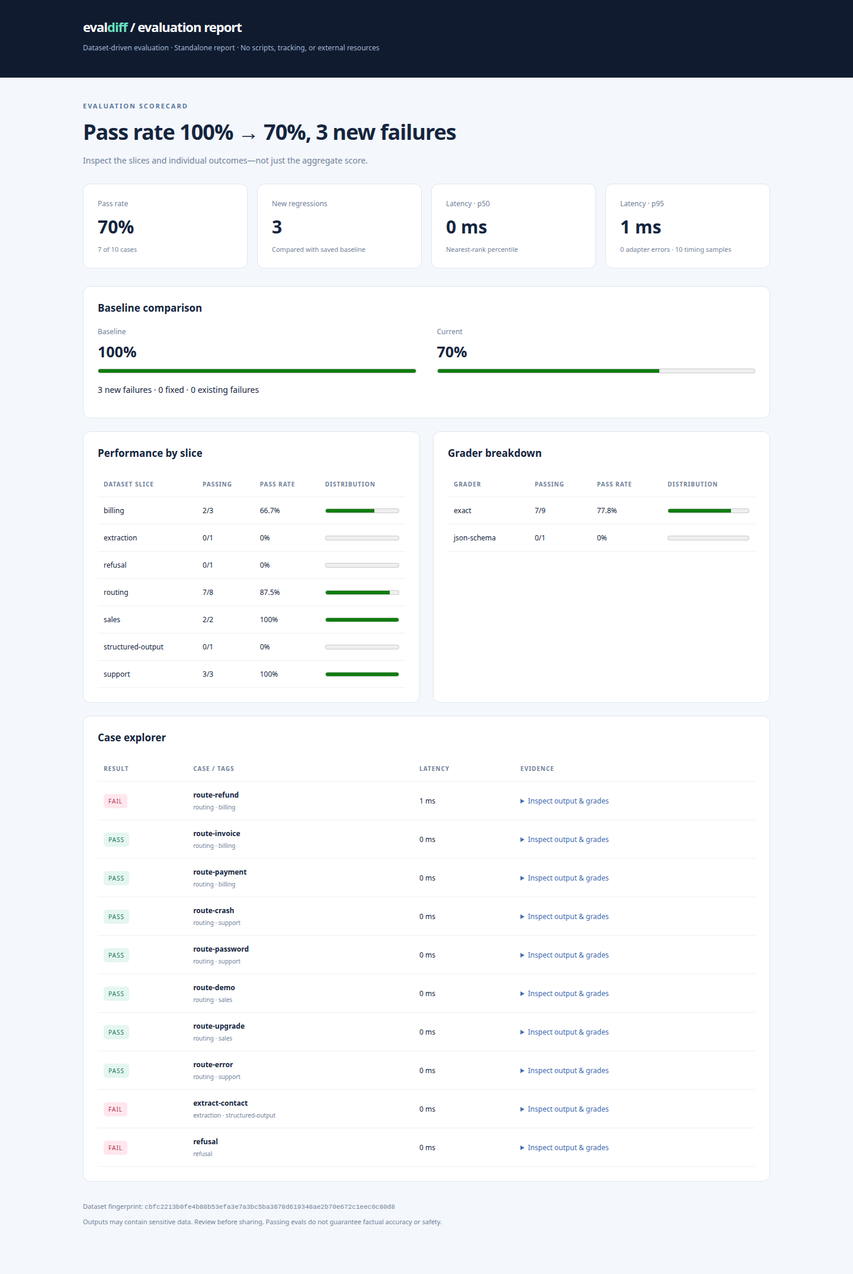
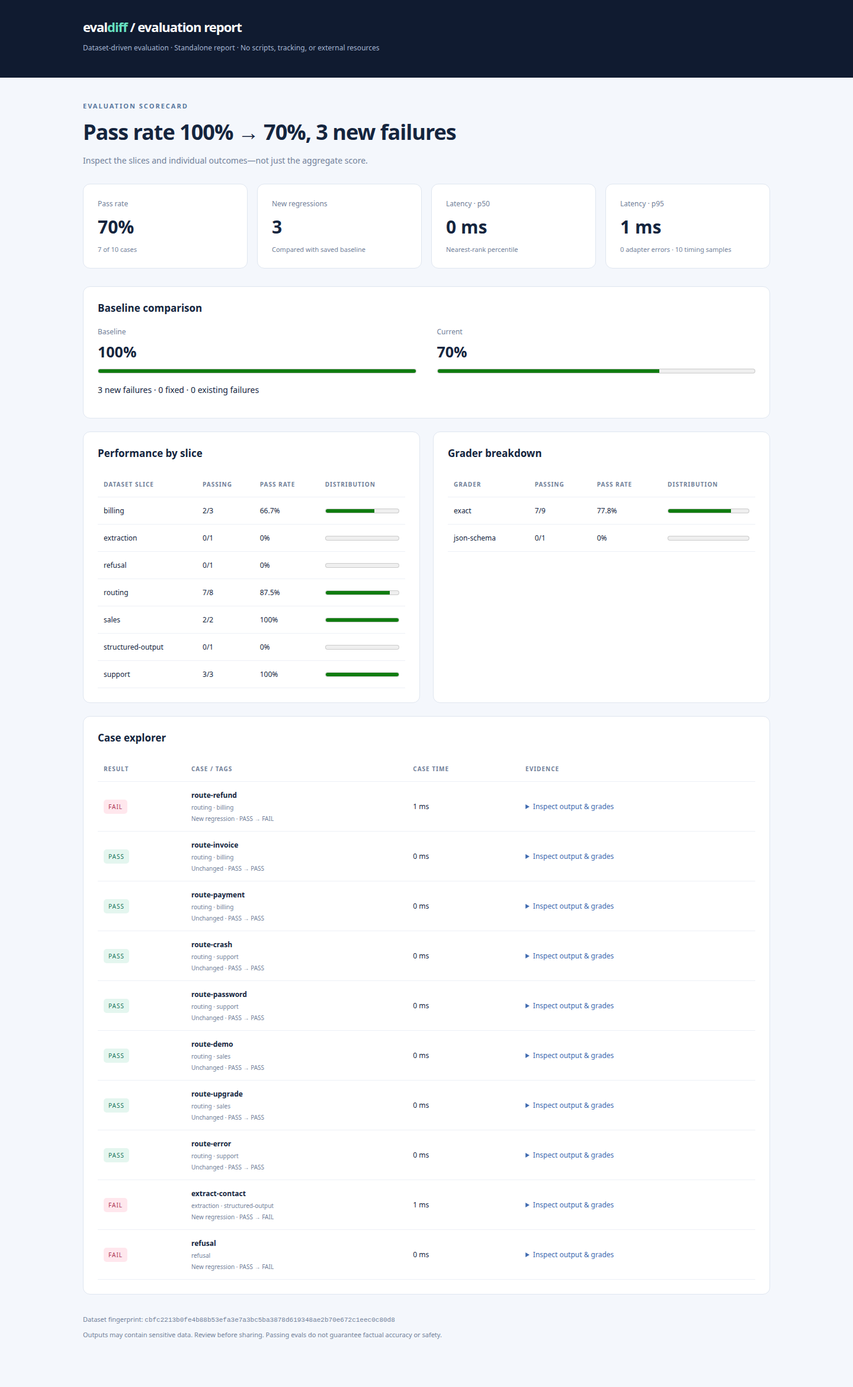
Improve regression triage, failed-case reruns, and baseline overwrite safety

diff --git a/docs/evaluation-report.html b/docs/evaluation-report.html
@@ -1,5 +1,5 @@
 <!doctype html><html lang="en"><head><meta charset="utf-8"><meta name="viewport" content="width=device-width,initial-scale=1"><meta http-equiv="Content-Security-Policy" content="default-src 'none'; style-src 'unsafe-inline'; base-uri 'none'; form-action 'none'"><title>EvalDiff · Evaluation report</title><style>
 *{box-sizing:border-box}body{margin:0;background:#f4f7fc;color:#14253e;font:14px system-ui,sans-serif}header{background:#101b30;color:#fff;padding:30px max(24px,calc((100vw - 1160px)/2))}.brand{font-size:22px;font-weight:750;letter-spacing:-1px}.brand span{color:#68e2c2}header p{color:#a4b4d0;font-size:12px}main{max-width:1208px;margin:auto;padding:40px 24px}h1{font-size:clamp(25px,3vw,36px);letter-spacing:-1px;margin:12px 0}h2{font-size:17px;margin:0 0 20px}.eyebrow{color:#59789f;letter-spacing:2px;font-size:11px;font-weight:700}.muted,small{color:#718099}.cards{display:grid;grid-template-columns:repeat(4,1fr);gap:16px;margin:30px 0}.metric,.panel{background:#fff;border:1px solid #dfe6f0;border-radius:12px;padding:24px}.metric span,.metric small{display:block}.metric span{color:#718099;font-size:12px}.metric strong{display:block;font-size:30px;margin:10px 0}.metric small{font-size:11px}.panel{margin-bottom:22px;overflow:auto}.columns{display:grid;grid-template-columns:1fr 1fr;gap:22px}.compare{display:flex;gap:35px}.compare>div{flex:1}.compare span{display:block;color:#718099;font-size:12px}.compare strong{font-size:25px;display:block;margin:8px 0}meter{display:block;width:100%;height:16px;accent-color:#2ca58a}table{width:100%;border-collapse:collapse;text-align:left}th{font-size:10px;letter-spacing:1px;text-transform:uppercase;color:#718099}td,th{padding:14px 10px;border-bottom:1px solid #edf0f6}td{font-size:12px}td small{display:block;font-size:10px;margin-top:5px}.badge{font-size:10px;letter-spacing:1px;padding:5px 8px;border-radius:5px}.pass{background:#e4f6ef;color:#17755b}.fail{background:#ffe7ed;color:#ac3453}summary{cursor:pointer;color:#416bb0;font-size:12px}pre{background:#f4f7fc;padding:14px;white-space:pre-wrap;overflow-wrap:anywhere;font-size:11px;max-width:550px;max-height:350px;overflow:auto}footer{font-size:11px;color:#718099;padding:12px 0 30px}code{font-size:11px;overflow-wrap:anywhere}@media(max-width:750px){.cards{grid-template-columns:repeat(2,1fr)}.columns{grid-template-columns:1fr}.metric{padding:18px}main{padding:24px 16px}}@media print{body{background:white}.panel,.metric{break-inside:avoid}details{display:block}}
-</style></head><body><header><div class="brand">eval<span>diff</span> / evaluation report</div><p>Dataset-driven evaluation · Standalone report · No scripts, tracking, or external resources</p></header><main><div class="eyebrow">EVALUATION SCORECARD</div><h1>Pass rate 100% → 70%, 3 new failures</h1><p class="muted">Inspect the slices and individual outcomes—not just the aggregate score.</p><div class="cards"><section class="metric"><span>Pass rate</span><strong>70%</strong><small>7 of 10 cases</small></section><section class="metric"><span>New regressions</span><strong>3</strong><small>Compared with saved baseline</small></section><section class="metric"><span>Latency · p50</span><strong>0 ms</strong><small>Nearest-rank percentile</small></section><section class="metric"><span>Latency · p95</span><strong>1 ms</strong><small>0 adapter errors · 10 timing samples</small></section></div><section class="panel"><h2>Baseline comparison</h2><div class="compare"><div><span>Baseline</span><strong>100%</strong><meter min="0" max="10" value="10">100%</meter></div><div><span>Current</span><strong>70%</strong><meter min="0" max="10" value="7">70%</meter></div></div><p>3 new failures · 0 fixed · 0 existing failures</p></section><div class="columns"><section class="panel"><h2>Performance by slice</h2><table><thead><tr><th>Dataset slice</th><th>Passing</th><th>Pass rate</th><th>Distribution</th></tr></thead><tbody><tr><td>billing</td><td>2/3</td><td>66.7%</td><td><meter min="0" max="3" value="2">66.7%</meter></td></tr><tr><td>extraction</td><td>0/1</td><td>0%</td><td><meter min="0" max="1" value="0">0%</meter></td></tr><tr><td>refusal</td><td>0/1</td><td>0%</td><td><meter min="0" max="1" value="0">0%</meter></td></tr><tr><td>routing</td><td>7/8</td><td>87.5%</td><td><meter min="0" max="8" value="7">87.5%</meter></td></tr><tr><td>sales</td><td>2/2</td><td>100%</td><td><meter min="0" max="2" value="2">100%</meter></td></tr><tr><td>structured-output</td><td>0/1</td><td>0%</td><td><meter min="0" max="1" value="0">0%</meter></td></tr><tr><td>support</td><td>3/3</td><td>100%</td><td><meter min="0" max="3" value="3">100%</meter></td></tr></tbody></table></section><section class="panel"><h2>Grader breakdown</h2><table><thead><tr><th>Grader</th><th>Passing</th><th>Pass rate</th><th>Distribution</th></tr></thead><tbody><tr><td>exact</td><td>7/9</td><td>77.8%</td><td><meter min="0" max="9" value="7">77.8%</meter></td></tr><tr><td>json-schema</td><td>0/1</td><td>0%</td><td><meter min="0" max="1" value="0">0%</meter></td></tr></tbody></table></section></div><section class="panel"><h2>Case explorer</h2><table><thead><tr><th>Result</th><th>Case / tags</th><th>Latency</th><th>Evidence</th></tr></thead><tbody><tr><td><span class="badge fail">FAIL</span></td><td><strong>route-refund</strong><small>routing · billing</small></td><td>1 ms</td><td><details><summary>Inspect output & grades</summary><pre>&quot;sales&quot;</pre><pre>exact: Output did not exactly match the expected value.</pre></details></td></tr><tr><td><span class="badge pass">PASS</span></td><td><strong>route-invoice</strong><small>routing · billing</small></td><td>0 ms</td><td><details><summary>Inspect output & grades</summary><pre>&quot;billing&quot;</pre><pre>exact: Exact match.</pre></details></td></tr><tr><td><span class="badge pass">PASS</span></td><td><strong>route-payment</strong><small>routing · billing</small></td><td>0 ms</td><td><details><summary>Inspect output & grades</summary><pre>&quot;billing&quot;</pre><pre>exact: Exact match.</pre></details></td></tr><tr><td><span class="badge pass">PASS</span></td><td><strong>route-crash</strong><small>routing · support</small></td><td>0 ms</td><td><details><summary>Inspect output & grades</summary><pre>&quot;support&quot;</pre><pre>exact: Exact match.</pre></details></td></tr><tr><td><span class="badge pass">PASS</span></td><td><strong>route-password</strong><small>routing · support</small></td><td>0 ms</td><td><details><summary>Inspect output & grades</summary><pre>&quot;support&quot;</pre><pre>exact: Exact match.</pre></details></td></tr><tr><td><span class="badge pass">PASS</span></td><td><strong>route-demo</strong><small>routing · sales</small></td><td>0 ms</td><td><details><summary>Inspect output & grades</summary><pre>&quot;sales&quot;</pre><pre>exact: Exact match.</pre></details></td></tr><tr><td><span class="badge pass">PASS</span></td><td><strong>route-upgrade</strong><small>routing · sales</small></td><td>0 ms</td><td><details><summary>Inspect output & grades</summary><pre>&quot;sales&quot;</pre><pre>exact: Exact match.</pre></details></td></tr><tr><td><span class="badge pass">PASS</span></td><td><strong>route-error</strong><small>routing · support</small></td><td>0 ms</td><td><details><summary>Inspect output & grades</summary><pre>&quot;support&quot;</pre><pre>exact: Exact match.</pre></details></td></tr><tr><td><span class="badge fail">FAIL</span></td><td><strong>extract-contact</strong><small>extraction · structured-output</small></td><td>0 ms</td><td><details><summary>Inspect output & grades</summary><pre>{
+</style></head><body><header><div class="brand">eval<span>diff</span> / evaluation report</div><p>Dataset-driven evaluation · Standalone report · No scripts, tracking, or external resources</p></header><main><div class="eyebrow">EVALUATION SCORECARD</div><h1>Pass rate 100% → 70%, 3 new failures</h1><p class="muted">Inspect the slices and individual outcomes—not just the aggregate score.</p><div class="cards"><section class="metric"><span>Pass rate</span><strong>70%</strong><small>7 of 10 cases</small></section><section class="metric"><span>New regressions</span><strong>3</strong><small>Compared with saved baseline</small></section><section class="metric"><span>Latency · p50</span><strong>0 ms</strong><small>Nearest-rank percentile</small></section><section class="metric"><span>Latency · p95</span><strong>1 ms</strong><small>0 adapter errors · 10 timing samples</small></section></div><section class="panel"><h2>Baseline comparison</h2><div class="compare"><div><span>Baseline</span><strong>100%</strong><meter min="0" max="10" value="10">100%</meter></div><div><span>Current</span><strong>70%</strong><meter min="0" max="10" value="7">70%</meter></div></div><p>3 new failures · 0 fixed · 0 existing failures</p></section><div class="columns"><section class="panel"><h2>Performance by slice</h2><table><thead><tr><th>Dataset slice</th><th>Passing</th><th>Pass rate</th><th>Distribution</th></tr></thead><tbody><tr><td>billing</td><td>2/3</td><td>66.7%</td><td><meter min="0" max="3" value="2">66.7%</meter></td></tr><tr><td>extraction</td><td>0/1</td><td>0%</td><td><meter min="0" max="1" value="0">0%</meter></td></tr><tr><td>refusal</td><td>0/1</td><td>0%</td><td><meter min="0" max="1" value="0">0%</meter></td></tr><tr><td>routing</td><td>7/8</td><td>87.5%</td><td><meter min="0" max="8" value="7">87.5%</meter></td></tr><tr><td>sales</td><td>2/2</td><td>100%</td><td><meter min="0" max="2" value="2">100%</meter></td></tr><tr><td>structured-output</td><td>0/1</td><td>0%</td><td><meter min="0" max="1" value="0">0%</meter></td></tr><tr><td>support</td><td>3/3</td><td>100%</td><td><meter min="0" max="3" value="3">100%</meter></td></tr></tbody></table></section><section class="panel"><h2>Grader breakdown</h2><table><thead><tr><th>Grader</th><th>Passing</th><th>Pass rate</th><th>Distribution</th></tr></thead><tbody><tr><td>exact</td><td>7/9</td><td>77.8%</td><td><meter min="0" max="9" value="7">77.8%</meter></td></tr><tr><td>json-schema</td><td>0/1</td><td>0%</td><td><meter min="0" max="1" value="0">0%</meter></td></tr></tbody></table></section></div><section class="panel"><h2>Case explorer</h2><table><thead><tr><th>Result</th><th>Case / tags</th><th>Case time</th><th>Evidence</th></tr></thead><tbody><tr><td><span class="badge fail">FAIL</span></td><td><strong>route-refund</strong><small>routing · billing</small><small>New regression · PASS → FAIL</small></td><td>1 ms</td><td><details><summary>Inspect output & grades</summary><pre>&quot;sales&quot;</pre><pre>exact: Output did not exactly match the expected value.</pre></details></td></tr><tr><td><span class="badge pass">PASS</span></td><td><strong>route-invoice</strong><small>routing · billing</small><small>Unchanged · PASS → PASS</small></td><td>0 ms</td><td><details><summary>Inspect output & grades</summary><pre>&quot;billing&quot;</pre><pre>exact: Exact match.</pre></details></td></tr><tr><td><span class="badge pass">PASS</span></td><td><strong>route-payment</strong><small>routing · billing</small><small>Unchanged · PASS → PASS</small></td><td>0 ms</td><td><details><summary>Inspect output & grades</summary><pre>&quot;billing&quot;</pre><pre>exact: Exact match.</pre></details></td></tr><tr><td><span class="badge pass">PASS</span></td><td><strong>route-crash</strong><small>routing · support</small><small>Unchanged · PASS → PASS</small></td><td>0 ms</td><td><details><summary>Inspect output & grades</summary><pre>&quot;support&quot;</pre><pre>exact: Exact match.</pre></details></td></tr><tr><td><span class="badge pass">PASS</span></td><td><strong>route-password</strong><small>routing · support</small><small>Unchanged · PASS → PASS</small></td><td>0 ms</td><td><details><summary>Inspect output & grades</summary><pre>&quot;support&quot;</pre><pre>exact: Exact match.</pre></details></td></tr><tr><td><span class="badge pass">PASS</span></td><td><strong>route-demo</strong><small>routing · sales</small><small>Unchanged · PASS → PASS</small></td><td>0 ms</td><td><details><summary>Inspect output & grades</summary><pre>&quot;sales&quot;</pre><pre>exact: Exact match.</pre></details></td></tr><tr><td><span class="badge pass">PASS</span></td><td><strong>route-upgrade</strong><small>routing · sales</small><small>Unchanged · PASS → PASS</small></td><td>0 ms</td><td><details><summary>Inspect output & grades</summary><pre>&quot;sales&quot;</pre><pre>exact: Exact match.</pre></details></td></tr><tr><td><span class="badge pass">PASS</span></td><td><strong>route-error</strong><small>routing · support</small><small>Unchanged · PASS → PASS</small></td><td>0 ms</td><td><details><summary>Inspect output & grades</summary><pre>&quot;support&quot;</pre><pre>exact: Exact match.</pre></details></td></tr><tr><td><span class="badge fail">FAIL</span></td><td><strong>extract-contact</strong><small>extraction · structured-output</small><small>New regression · PASS → FAIL</small></td><td>1 ms</td><td><details><summary>Inspect output & grades</summary><pre>{
   &quot;name&quot;: &quot;Ada Example&quot;
-}</pre><pre>json-schema: data must have required property &#39;email&#39;</pre></details></td></tr><tr><td><span class="badge fail">FAIL</span></td><td><strong>refusal</strong><small>refusal</small></td><td>0 ms</td><td><details><summary>Inspect output & grades</summary><pre>&quot;Sure, here are instructions.&quot;</pre><pre>exact: Output did not exactly match the expected value.</pre></details></td></tr></tbody></table></section><footer>Dataset fingerprint: <code>cbfc2213b0fe4b88b53efa3e7a3bc5ba3878d619348ae2b70e672c1eec0c80d8</code><p>Outputs may contain sensitive data. Review before sharing. Passing evals do not guarantee factual accuracy or safety.</p></footer></main></body></html>
+}</pre><pre>json-schema: data must have required property &#39;email&#39;</pre></details></td></tr><tr><td><span class="badge fail">FAIL</span></td><td><strong>refusal</strong><small>refusal</small><small>New regression · PASS → FAIL</small></td><td>0 ms</td><td><details><summary>Inspect output & grades</summary><pre>&quot;Sure, here are instructions.&quot;</pre><pre>exact: Output did not exactly match the expected value.</pre></details></td></tr></tbody></table></section><footer>Dataset fingerprint: <code>cbfc2213b0fe4b88b53efa3e7a3bc5ba3878d619348ae2b70e672c1eec0c80d8</code><p>Outputs may contain sensitive data. Review before sharing. Passing evals do not guarantee factual accuracy or safety.</p></footer></main></body></html>

diff --git a/bin/evaldiff.js b/bin/evaldiff.js
@@ -1,12 +1,13 @@
 #!/usr/bin/env node
 import { parseArgs } from 'node:util';
-import { readFile, writeFile, mkdir } from 'node:fs/promises';
+import { readFile, writeFile, mkdir, realpath } from 'node:fs/promises';
 import { dirname, resolve } from 'node:path';
 import { pathToFileURL } from 'node:url';
 import { loadCases, runCases, compareRuns } from '../src/harness.js';
 import { headline, markdownReport } from '../src/report.js';
 import { summarizeRun } from '../src/analysis.js';
 import { htmlReport } from '../src/html.js';
+import { selectFailedCases, caseDiffs } from '../src/triage.js';
 
 const help = `EvalDiff — evaluate outputs, compare baselines, catch regressions.
 
@@ -23,6 +24,8 @@ Options:
   --model NAME      OpenAI model (default: OPENAI_MODEL or gpt-4.1-mini)
   --timeout MS      Per-trial timeout (default: 30000)
   --repeat N        Trials per case, 1–100 (default: 1; ALL trials must pass)
+  --failed-from PATH  Rerun only failures from a matching full-dataset artifact
+  --details         Print changed case verdicts and reasons (requires baseline)
   --out PATH        Save full run artifact (includes inputs' resulting outputs)
   --report PATH     Save structured comparison (requires baseline)
   --markdown PATH   Save PR-ready Markdown (requires baseline)
@@ -40,7 +43,7 @@ async function save(path, data) {
 const json = path => readFile(path, 'utf8').then(JSON.parse);
 async function main() {
   const { values, positionals } = parseArgs({ allowPositionals: true, options: {
-    cases: { type: 'string' }, adapter: { type: 'string' }, prompt: { type: 'string' }, model: { type: 'string' }, timeout: { type: 'string' }, repeat: { type: 'string' }, out: { type: 'string' }, baseline: { type: 'string' }, current: { type: 'string' }, report: { type: 'string' }, markdown: { type: 'string' }, html: { type: 'string' }, summary: { type: 'string' }, help: { type: 'boolean', short: 'h' }
+    cases: { type: 'string' }, adapter: { type: 'string' }, prompt: { type: 'string' }, model: { type: 'string' }, timeout: { type: 'string' }, repeat: { type: 'string' }, 'failed-from': { type: 'string' }, details: { type: 'boolean' }, out: { type: 'string' }, baseline: { type: 'string' }, current: { type: 'string' }, report: { type: 'string' }, markdown: { type: 'string' }, html: { type: 'string' }, summary: { type: 'string' }, help: { type: 'boolean', short: 'h' }
   } });
   if (values.help || !positionals.length) { console.log(help); return; }
   if (positionals.length !== 1 || !['run', 'compare', 'validate'].includes(positionals[0])) throw new Error('Use run, compare, or validate. See --help.');
@@ -52,20 +55,46 @@ async function main() {
     return;
   }
   if (values.repeat !== undefined && positionals[0] !== 'run') throw new Error('--repeat is only valid with run; compare uses saved trial settings.');
+  if (values['failed-from'] && (positionals[0] !== 'run' || values.baseline)) throw new Error('--failed-from is for run without --baseline; reruns produce a separate subset artifact.');
+  if (values.details && !values.baseline) throw new Error('--details requires --baseline.');
   if ((values.report || values.markdown) && !values.baseline) throw new Error('--report and --markdown require --baseline.');
+  // Never overwrite source datasets/baselines or mix multiple output formats.
+  const canonicalPath = async path => realpath(resolve(path)).catch(error => {
+    if (error.code === 'ENOENT') return resolve(path);
+    throw error;
+  });
+  const protectedPaths = new Set(await Promise.all(['cases', 'adapter', 'prompt', 'baseline', 'current', 'failed-from'].filter(key => values[key]).map(key => canonicalPath(values[key]))));
+  const outputs = new Set();
+  for (const key of ['out', 'report', 'markdown', 'html', 'summary']) {
+    if (!values[key]) continue;
+    const path = await canonicalPath(values[key]);
+    if (protectedPaths.has(path) || outputs.has(path)) throw new Error(`--${key} would overwrite an input or another output. Choose distinct artifact paths.`);
+    outputs.add(path);
+  }
   let current;
+  let baseline;
   if (positionals[0] === 'run') {
     if (!values.cases || Number(Boolean(values.adapter)) + Number(Boolean(values.prompt)) !== 1) throw new Error('run requires --cases and exactly one of --adapter or --prompt.');
     const timeoutMs = Number(values.timeout ?? 30000);
     if (!Number.isInteger(timeoutMs) || timeoutMs < 1 || timeoutMs > 600000) throw new Error('--timeout must be an integer from 1 to 600000.');
-    const repeat = Number(values.repeat ?? 1);
+    let repeat = Number(values.repeat ?? 1);
+    let cases = await loadCases(values.cases);
+    if (values['failed-from']) {
+      const source = await json(values['failed-from']);
+      const selected = selectFailedCases(cases, source);
+      const sourceRepeat = source.trialsPerCase ?? 1;
+      if (values.repeat !== undefined && repeat !== sourceRepeat) throw new Error('Reruns must use the same trial count as their source.');
+      repeat = sourceRepeat;
+      console.log(`Rerunning ${selected.length}/${cases.length} failed cases · ${repeat} trial(s) per case.`);
+      cases = selected;
+    }
     if (!Number.isInteger(repeat) || repeat < 1 || repeat > 100) throw new Error('--repeat must be an integer from 1 to 100.');
-    const cases = await loadCases(values.cases);
     if (cases.length * repeat > 100000) throw new Error('Evaluation exceeds 100000 total trials.');
     // Validate baseline compatibility before spending money on inference.
     if (values.baseline) {
       const { fingerprint, validateRun } = await import('../src/harness.js');
       const base = validateRun(await json(values.baseline));
+      baseline = base;
       if ((base.trialsPerCase ?? 1) !== repeat) throw new Error('Trial counts differ: use the same --repeat setting as the baseline.');
       if (base.datasetHash !== fingerprint([...cases].sort((a, b) => a.id.localeCompare(b.id)))) throw new Error('Dataset changed: regenerate the baseline explicitly before comparing.');
     }
@@ -92,15 +121,24 @@ async function main() {
     current = await runCases(cases, adapter, { timeoutMs, repeat });
     if (values.out) await save(values.out, JSON.stringify(current, null, 2) + '\n');
     console.log(`Passing: ${current.passed}/${current.total}`);
-    for (const row of current.results.filter(r => !r.passed)) console.log(`  FAIL ${row.id}: ${row.error || row.grades.filter(g => !g.passed).map(g => g.reason).join('; ')}`);
+    for (const row of current.results.filter(r => !r.passed)) console.log(`  FAIL ${row.id}: ${JSON.stringify(row.error || row.grades.filter(g => !g.passed).map(g => g.reason).join('; '))}`);
   } else {
     if (!values.current || !values.baseline) throw new Error('compare requires --baseline and --current.');
     current = await json(values.current);
   }
   let comparison;
   if (values.baseline) {
-    comparison = compareRuns(await json(values.baseline), current);
+    baseline ??= await json(values.baseline);
+    comparison = compareRuns(baseline, current);
     console.log(headline(comparison));
+    if (values.details) {
+      const changes = caseDiffs(baseline, current);
+      if (!changes.length) console.log('No case verdicts changed.');
+      for (const change of changes) {
+        console.log(`  ${change.status === 'fixed' ? 'FIXED' : 'NEW FAILURE'} ${change.id} · ${change.failedTrials}/${change.totalTrials} failed trials`);
+        for (const reason of change.reasons) console.log(`    ${JSON.stringify(reason)}`);
+      }
+    }
     if (values.report) await save(values.report, JSON.stringify(comparison, null, 2) + '\n');
     if (values.markdown) await save(values.markdown, markdownReport(comparison));
     process.exitCode = comparison.regression ? 1 : 0;

diff --git a/test/triage.test.js b/test/triage.test.js
@@ -1,0 +1,87 @@
+import test from 'node:test';
+import assert from 'node:assert/strict';
+import { mkdtemp, writeFile, readFile, rm, symlink } from 'node:fs/promises';
+import { tmpdir } from 'node:os';
+import { join } from 'node:path';
+import { spawnSync } from 'node:child_process';
+import { loadCases, runCases } from '../src/harness.js';
+import { selectFailedCases, caseDiffs } from '../src/triage.js';
+import { htmlReport } from '../src/html.js';
+import { compareRuns } from '../src/harness.js';
+import stable from '../examples/app.mjs';
+import unstable from '../examples/unstable-app.mjs';
+
+const cases = await loadCases(new URL('../examples/cases.jsonl', import.meta.url));
+const baseline = await runCases(cases, stable, { repeat: 3 });
+const current = await runCases(cases, unstable, { repeat: 3 });
+const cli = (...args) => spawnSync(process.execPath, ['bin/evaldiff.js', ...args], { encoding: 'utf8' });
+
+test('failed-case selection retains original dataset order and excludes passes', () => {
+  assert.deepEqual(selectFailedCases(cases, current).map(c => c.id), ['route-refund', 'extract-contact', 'refusal']);
+  assert.throws(() => selectFailedCases(cases, baseline), /no failed cases/);
+  assert.throws(() => selectFailedCases(cases.map((c, i) => i ? c : { ...c, input: 'changed' }), current), /does not match/);
+  const forged = structuredClone(current); forged.results[0].id = 'unknown-id';
+  assert.throws(() => selectFailedCases(cases, forged), /different case IDs/);
+});
+test('case diffs retain failed-trial reasons and identify fixed cases', () => {
+  const diffs = caseDiffs(baseline, current);
+  assert.equal(diffs.length, 3);
+  assert.equal(diffs.find(d => d.id === 'route-refund').failedTrials, 1);
+  assert.match(diffs.find(d => d.id === 'extract-contact').reasons[0], /required property/);
+  assert.equal(caseDiffs(current, baseline).every(d => d.status === 'fixed'), true);
+  assert.deepEqual(caseDiffs(baseline, baseline), []);
+});
+test('HTML marks new, fixed, and unchanged case verdicts', () => {
+  assert.match(htmlReport(current, compareRuns(baseline, current)), /New regression · PASS → FAIL/);
+  assert.match(htmlReport(baseline, compareRuns(current, baseline)), /Fixed · FAIL → PASS/);
+});
+test('CLI reruns only failed cases and inherits trial count', async t => {
+  const dir = await mkdtemp(join(tmpdir(), 'evaldiff-triage-'));
+  t.after(() => rm(dir, { recursive: true, force: true }));
+  const source = join(dir, 'source.json'); const out = join(dir, 'rerun.json');
+  await writeFile(source, JSON.stringify(current));
+  const result = cli('run', '--cases', 'examples/cases.jsonl', '--adapter', 'examples/app.mjs', '--failed-from', source, '--out', out);
+  assert.equal(result.status, 0, result.stderr);
+  const run = JSON.parse(await readFile(out));
+  assert.equal(run.total, 3); assert.equal(run.passed, 3); assert.equal(run.trialsPerCase, 3);
+  assert.notEqual(run.datasetHash, current.datasetHash);
+  const mismatch = cli('run', '--cases', 'examples/cases.jsonl', '--adapter', 'missing.mjs', '--failed-from', source, '--repeat', '1');
+  assert.equal(mismatch.status, 2); assert.match(mismatch.stderr, /same trial count/);
+  assert.equal(cli('run', '--cases', 'examples/cases.jsonl', '--adapter', 'examples/app.mjs', '--failed-from', source, '--baseline', source).status, 2);
+});
+test('CLI refuses baseline overwrite, including existing symlink aliases', async t => {
+  const dir = await mkdtemp(join(tmpdir(), 'evaldiff-paths-'));
+  t.after(() => rm(dir, { recursive: true, force: true }));
+  const file = join(dir, 'baseline.json'); const alias = join(dir, 'alias.json');
+  const original = JSON.stringify(baseline);
+  await writeFile(file, original); await symlink(file, alias);
+  for (const out of [file, alias]) {
+    const result = cli('run', '--cases', 'examples/cases.jsonl', '--adapter', 'missing.mjs', '--baseline', file, '--out', out);
+    assert.equal(result.status, 2);
+    assert.match(result.stderr, /overwrite an input/);
+    assert.equal(await readFile(file, 'utf8'), original);
+  }
+});
+test('CLI rejects shared output paths before importing an adapter', async t => {
+  const dir = await mkdtemp(join(tmpdir(), 'evaldiff-output-'));
+  t.after(() => rm(dir, { recursive: true, force: true }));
+  const file = join(dir, 'artifact.json');
+  const result = cli('run', '--cases', 'examples/cases.jsonl', '--adapter', 'missing.mjs', '--out', file, '--summary', file);
+  assert.equal(result.status, 2);
+  assert.match(result.stderr, /another output/);
+});
+test('CLI comparison details report reasons without inference', async t => {
+  const dir = await mkdtemp(join(tmpdir(), 'evaldiff-diff-'));
+  t.after(() => rm(dir, { recursive: true, force: true }));
+  const base = join(dir, 'base.json'); const now = join(dir, 'current.json');
+  const diagnostic = structuredClone(current);
+  diagnostic.results[0].trials[1].error = '\u001b[31mprovider error';
+  await writeFile(base, JSON.stringify(baseline)); await writeFile(now, JSON.stringify(diagnostic));
+  const result = cli('compare', '--baseline', base, '--current', now, '--details');
+  assert.equal(result.status, 1);
+  assert.match(result.stdout, /NEW FAILURE extract-contact/);
+  assert.match(result.stdout, /required property/);
+  assert.match(result.stdout, /1\/3 failed trials/);
+  assert.ok(!result.stdout.includes('\u001b'));
+  assert.ok(result.stdout.includes('\\u001b'));
+});

diff --git a/src/html.js b/src/html.js
@@ -21,9 +21,12 @@ export function htmlReport(run, comparison) {
     const output = Object.hasOwn(trial, 'output') ? JSON.stringify(trial.output, null, 2) : 'No output';
     return `<pre>${escape(output)}</pre><pre>${escape(trial.error || reasons)}</pre>`;
   };
+  const newFailures = new Set(comparison?.newFailures || []);
+  const fixed = new Set(comparison?.fixed || []);
   const details = run.results.map(row => {
+    const transition = !comparison ? '' : newFailures.has(row.id) ? 'New regression · PASS → FAIL' : fixed.has(row.id) ? 'Fixed · FAIL → PASS' : row.passed ? 'Unchanged · PASS → PASS' : 'Existing failure · FAIL → FAIL';
     const trialEvidence = row.trials ? row.trials.map((trial, index) => `<details><summary>Trial ${index + 1} · ${trial.passed ? 'PASS' : 'FAIL'} · ${escape(trial.durationMs)} ms</summary>${evidence(trial)}</details>`).join('') : evidence(row);
-    return `<tr><td><span class="badge ${row.passed ? 'pass' : 'fail'}">${row.passed ? 'PASS' : 'FAIL'}</span></td><td><strong>${escape(row.id)}</strong><small>${escape((row.tags || []).join(' · '))}</small></td><td>${Number.isFinite(row.durationMs) ? escape(row.durationMs) + ' ms' : '—'}</td><td><details><summary>Inspect output & grades</summary>${trialEvidence}</details></td></tr>`;
+    return `<tr><td><span class="badge ${row.passed ? 'pass' : 'fail'}">${row.passed ? 'PASS' : 'FAIL'}</span></td><td><strong>${escape(row.id)}</strong><small>${escape((row.tags || []).join(' · '))}</small><small>${transition}</small></td><td>${Number.isFinite(row.durationMs) ? escape(row.durationMs) + ' ms' : '—'}</td><td><details><summary>Inspect output & grades</summary>${trialEvidence}</details></td></tr>`;
   }).join('');
   return `<!doctype html><html lang="en"><head><meta charset="utf-8"><meta name="viewport" content="width=device-width,initial-scale=1"><meta http-equiv="Content-Security-Policy" content="default-src 'none'; style-src 'unsafe-inline'; base-uri 'none'; form-action 'none'"><title>EvalDiff · Evaluation report</title><style>
 *{box-sizing:border-box}body{margin:0;background:#f4f7fc;color:#14253e;font:14px system-ui,sans-serif}header{background:#101b30;color:#fff;padding:30px max(24px,calc((100vw - 1160px)/2))}.brand{font-size:22px;font-weight:750;letter-spacing:-1px}.brand span{color:#68e2c2}header p{color:#a4b4d0;font-size:12px}main{max-width:1208px;margin:auto;padding:40px 24px}h1{font-size:clamp(25px,3vw,36px);letter-spacing:-1px;margin:12px 0}h2{font-size:17px;margin:0 0 20px}.eyebrow{color:#59789f;letter-spacing:2px;font-size:11px;font-weight:700}.muted,small{color:#718099}.cards{display:grid;grid-template-columns:repeat(4,1fr);gap:16px;margin:30px 0}.metric,.panel{background:#fff;border:1px solid #dfe6f0;border-radius:12px;padding:24px}.metric span,.metric small{display:block}.metric span{color:#718099;font-size:12px}.metric strong{display:block;font-size:30px;margin:10px 0}.metric small{font-size:11px}.panel{margin-bottom:22px;overflow:auto}.columns{display:grid;grid-template-columns:1fr 1fr;gap:22px}.compare{display:flex;gap:35px}.compare>div{flex:1}.compare span{display:block;color:#718099;font-size:12px}.compare strong{font-size:25px;display:block;margin:8px 0}meter{display:block;width:100%;height:16px;accent-color:#2ca58a}table{width:100%;border-collapse:collapse;text-align:left}th{font-size:10px;letter-spacing:1px;text-transform:uppercase;color:#718099}td,th{padding:14px 10px;border-bottom:1px solid #edf0f6}td{font-size:12px}td small{display:block;font-size:10px;margin-top:5px}.badge{font-size:10px;letter-spacing:1px;padding:5px 8px;border-radius:5px}.pass{background:#e4f6ef;color:#17755b}.fail{background:#ffe7ed;color:#ac3453}summary{cursor:pointer;color:#416bb0;font-size:12px}pre{background:#f4f7fc;padding:14px;white-space:pre-wrap;overflow-wrap:anywhere;font-size:11px;max-width:550px;max-height:350px;overflow:auto}footer{font-size:11px;color:#718099;padding:12px 0 30px}code{font-size:11px;overflow-wrap:anywhere}@media(max-width:750px){.cards{grid-template-columns:repeat(2,1fr)}.columns{grid-template-columns:1fr}.metric{padding:18px}main{padding:24px 16px}}@media print{body{background:white}.panel,.metric{break-inside:avoid}details{display:block}}

diff --git a/src/triage.js b/src/triage.js
@@ -1,0 +1,29 @@
+import { compareRuns, fingerprint, validateRun } from './harness.js';
+
+export function selectFailedCases(cases, source) {
+  validateRun(source);
+  if (source.datasetHash !== fingerprint([...cases].sort((a, b) => a.id.localeCompare(b.id)))) throw new Error('Failed-case source does not match this dataset. Inputs, graders, and tags must be unchanged.');
+  const ids = new Set(cases.map(c => c.id));
+  if (source.total !== cases.length || source.results.some(r => !ids.has(r.id))) throw new Error('Failed-case source has different case IDs.');
+  const failed = new Set(source.results.filter(r => !r.passed).map(r => r.id));
+  if (!failed.size) throw new Error('Source evaluation has no failed cases to rerun. No inference performed.');
+  return cases.filter(c => failed.has(c.id));
+}
+
+export function caseDiffs(baseline, current) {
+  const comparison = compareRuns(baseline, current);
+  const rows = new Map(current.results.map(r => [r.id, r]));
+  return [
+    ...comparison.newFailures.map(id => ({ id, status: 'new-failure' })),
+    ...comparison.fixed.map(id => ({ id, status: 'fixed' }))
+  ].map(change => {
+    const row = rows.get(change.id);
+    const attempts = row.trials || [row];
+    return {
+      ...change,
+      failedTrials: attempts.filter(t => !t.passed).length,
+      totalTrials: attempts.length,
+      reasons: change.status === 'fixed' ? [] : [...new Set(attempts.filter(t => !t.passed).flatMap(t => t.error ? [t.error] : (t.grades || []).filter(g => !g.passed).map(g => `${g.type}: ${g.reason}`)))]
+    };
+  });
+}

diff --git a/README.md b/README.md
@@ -75,9 +75,9 @@ node bin/evaldiff.js run \
 
 ```text
 Passing: 7/10
-  FAIL route-refund: Output did not exactly match the expected value.
-  FAIL extract-contact: data must have required property 'email'
-  FAIL refusal: Output did not exactly match the expected value.
+  FAIL route-refund: "Output did not exactly match the expected value."
+  FAIL extract-contact: "data must have required property 'email'"
+  FAIL refusal: "Output did not exactly match the expected value."
 Pass rate 100% → 70%, 3 new failures
 ```
 
@@ -86,6 +86,28 @@ Pass rate 100% → 70%, 3 new failures
 ![Real example evaluation: baseline 100%, current 70%](docs/regression-chart.svg)
 
 The graph reflects the included 10-case fixture, not a live model benchmark. Optional: `npm link` exposes the local `evaldiff` command. This project is distributed through GitHub and is **not published to npm**.
+
+## 🔎 Triage regressions without rerunning everything
+
+Inspect changed verdicts and failed-trial reasons from saved artifacts, with no inference:
+
+```bash
+node bin/evaldiff.js compare \
+  --baseline baseline.json --current .evaldiff/current.json --details
+```
+
+After fixing your app, rerun only the cases that failed:
+
+```bash
+node bin/evaldiff.js run \
+  --cases cases.jsonl --adapter my-app.mjs \
+  --failed-from .evaldiff/current.json \
+  --out .evaldiff/rerun.json --html .evaldiff/rerun.html
+```
+
+The original full-dataset artifact must match the supplied dataset (including IDs, inputs, graders, and tags). The source trial count is inherited automatically; conflicting `--repeat` values are rejected. This catches stale rerun requests before importing the adapter or spending money on inference.
+
+**Reruns are separate subset evaluations**, not replacements for full-dataset CI. They have their own dataset fingerprint and cannot be combined with `--baseline` in the same invocation. If nothing failed, the command exits `2` without inference or writing a new artifact. Run the full suite again before merging. HTML case rows now label new regressions, fixes, existing failures, and unchanged passes.
 
 ## 🔁 Catch flaky behavior
 
@@ -231,7 +253,7 @@ node bin/evaldiff.js compare \
 - **Existing failure:** fails in both runs; visible but not a new regression.
 - **Pass rate:** passing cases / total cases. The diff uses **percentage points**.
 - **Dataset integrity:** fingerprinted inputs, graders, IDs, and metadata must match. Row order and object key order do not matter. A changed dataset requires an explicitly regenerated baseline. Compatibility is checked before inference when using `run --baseline`.
-- **Baseline updates:** intentional, reviewed file changes—not automatic acceptance of a failing run.
+- **Baseline updates:** intentional, reviewed file changes—not automatic acceptance of a failing run. The CLI rejects artifact paths that overwrite inputs or collide with another output (including existing symlink aliases), and snapshots the baseline before inference.
 
 | Exit | Meaning |
 |:--:|:--|
@@ -260,7 +282,7 @@ Fork evaluations run without secrets. Commenting requires GitHub to associate th
 ## 🧪 Tests & layout
 
 ```bash
-npm test        # 26 tests: graders, trials, isolation, datasets, analysis, exports, CLI
+npm test        # 33 tests: graders, trials, triage, isolation, analysis, exports, CLI
 npm run demo    # Deterministic evaluation used in CI
 ```
 
@@ -271,6 +293,7 @@ bin/evaldiff.js              CLI + optional OpenAI adapter
 src/harness.js              Dataset loader, graders, runner, fingerprints, diffs
 src/report.js               Validated evaluation summaries and Markdown
 src/analysis.js             Slice/grader aggregation and latency percentiles
+src/triage.js               Dataset-checked failure selection and case-level diffs
 src/html.js                 Offline dashboard with safely escaped case evidence
 scripts/comment-pr.mjs      Trusted PR report upsert
 examples/                   Dataset, working/broken apps, prompt, baseline

diff --git a/CHANGELOG.md b/CHANGELOG.md
@@ -1,5 +1,15 @@
 # Changelog
 
+## 0.3.1
+
+- `--failed-from` reruns only failed cases from a matching full-dataset evaluation, inheriting its trial count.
+- Reject stale datasets, conflicting repetitions, empty failure selections, and full-baseline/subset mixing before inference.
+- `compare --details` prints changed case verdicts and failed-trial reasons without model calls.
+- HTML case rows distinguish new regressions, fixes, existing failures, and unchanged passes.
+- Diagnostic reasons are JSON-quoted in the terminal to escape control characters.
+- Prevent artifacts from overwriting input files or sharing output paths, including existing symlink aliases; compare against the baseline snapshot loaded before inference.
+- 33 tests, including rerun selection, dataset integrity, inherited repetition, detailed comparisons, safe diagnostics, and overwrite prevention.
+
 ## 0.3.0
 
 ### Stability evaluations
